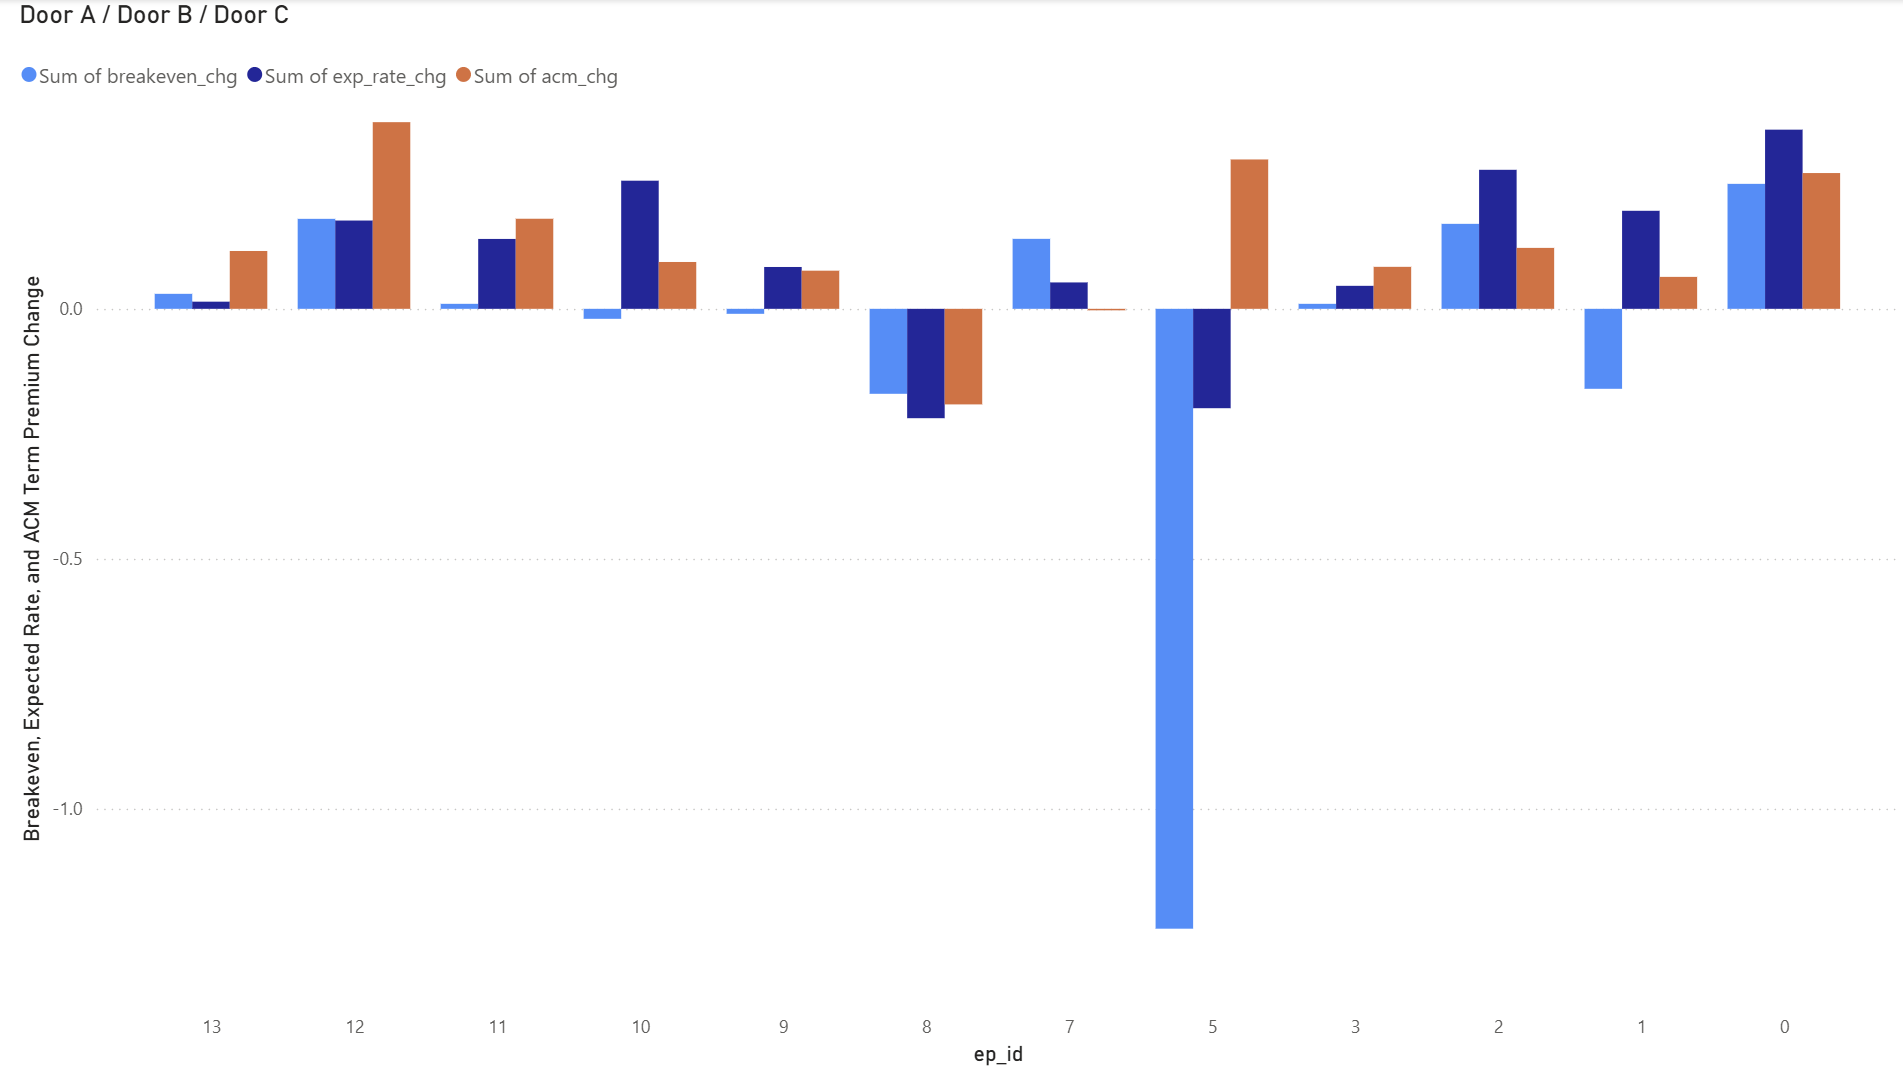
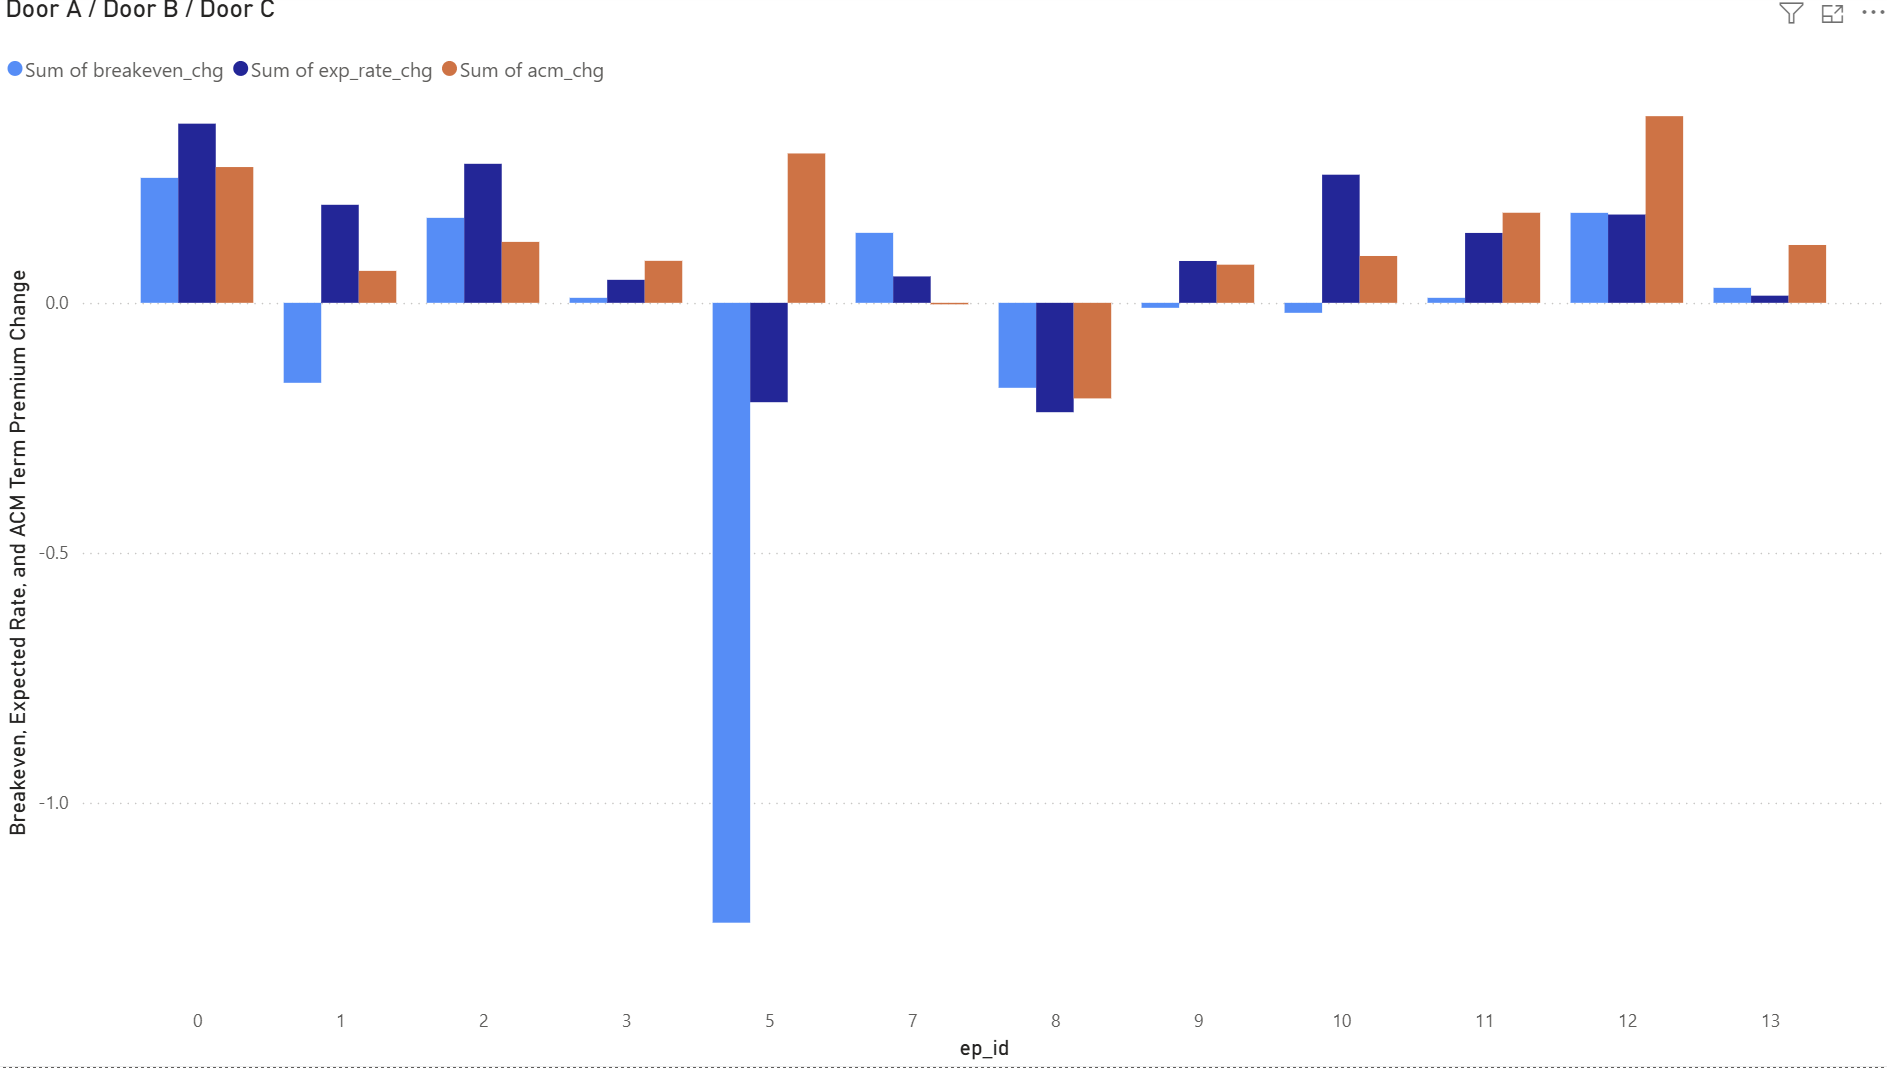
updated readme

diff --git a/README.md b/README.md
@@ -1,2 +1,115 @@
-# gold-real-yield-positive-correlation
-Why gold and the 10Y real yield sometimes co-move, despite a daily relationship that never turns positive across 2004–2026. Decomposes 12 high-correlation episodes into expected rates, term premium, and breakevens
+# Gold and the 10Y Real Yield
+
+Gold pays no interest. So when real yields rise, holding gold costs you more, and gold should fall. In daily data that's exactly what happens — across 5,304 trading days from 2004 to 2026, the 30-day correlation between daily gold returns and daily changes in the 10-year TIPS yield never once turns positive.
+
+But look at the *levels* instead of the changes and the picture breaks. On 191 days, about 3.6% of the sample, the 30-day correlation between the gold price and the real yield exceeds +0.60. Gold and its own opportunity cost, apparently moving together.
+
+This project works out what's going on those days.
+
+The short answer: nothing connects gold to real yields positively. On those days something else has hold of both series at once, and decomposing the yield move tells you what.
+
+## The idea
+
+Two bond-market identities do most of the work here:
+
+```
+Nominal 10Y = expected Fed path + term premium
+Real 10Y    = nominal − breakeven inflation
+
+⇒  real yield = expected rates + term premium − breakeven
+```
+
+So "real yields rose" is three different stories wearing the same headline. Expected rates could have risen, meaning cash genuinely pays more and gold's opportunity cost really did increase. Or the term premium rose, meaning investors demanded more compensation for duration risk — cash pays no more, and the usual causes, deficits and inflation uncertainty, are reasons people buy gold. Or breakevens fell, which pushes the real yield up arithmetically and signals a deflation scare.
+
+Gold only cares about the first one. The textbook rule isn't really "real yields up, gold down" — it's "*expected rates* up, gold down." When the other two components do the moving, the rule's premise is simply absent.
+
+## What I did
+
+I flagged every stretch of consecutive days where the level correlation broke +0.60, requiring at least a trading week and 60 days of separation between episodes. That gives 12 episodes. Each one gets measured over a window starting 30 days before its first flagged day, because the rolling correlation looks backward and the measurement has to match the window the statistic actually describes.
+
+Then each episode's yield move gets split into its three components, using the New York Fed's ACM estimate for the term premium.
+
+For testing whether anything about an episode was *unusual*, I used the same tool throughout: take the episode's length in trading days, compute every change of that length across a matched comparison pool, throw out any window overlapping an episode, and see where the episode itself falls in that distribution. Percentiles rather than p-values, because those windows overlap heavily and the effective sample size is much smaller than it looks.
+
+## What came out
+
+**The two timescales are genuinely different structures.**
+
+![Rolling correlations, levels vs log changes](images/corr-line-plot.png)
+
+The light line (levels) crosses +0.60 repeatedly. The dark line (daily changes) never gets close.
+
+![Daily gold return vs real yield change](images/change-real-vs-log-return-gold.png)
+
+The daily scatter is one negative cloud, and episode days sit inside it alongside everything else. Whatever causes the positive level correlation isn't a change in how gold responds to yields day to day.
+
+**Every episode falls into one of five regimes.**
+
+![Door decomposition by episode](images/mechanisms-episode-regime.png)
+
+| Regime            | Episodes           | What actually moved                               | Gold                                                                       |
+| ----------------- | ------------------ | ------------------------------------------------- | -------------------------------------------------------------------------- |
+| Demand boom       | 0–3 (2005–07)    | expected rates genuinely rose                     | rose anyway, +4% to +29%                                                   |
+| Broken gauge      | 5 (2008)           | breakevens collapsed 1.24pp; nominal barely moved | rose on panic — the measured real yield was distorted by TIPS illiquidity |
+| Eurozone risk-off | 7–8 (2011–12)    | all three components falling together             | fell with yields                                                           |
+| Control           | 9–10 (2013, 2018) | expected rates, honestly                          | **fell** — the textbook channel working                             |
+| Fiscal premia     | 11–13 (2024–26)  | term premium, 56–89% of the nominal move         | rose through "rising real yields"                                          |
+
+The 2013 and 2018 episodes matter most. Gold *fell* in both, exactly as theory says it should when expected rates are the thing moving. Having a control group is what makes the rest of this more than storytelling.
+
+**Composition identifies a regime, not magnitude.**
+
+![Expected rate change vs ACM percentile](images/exp-rate-change-and-acm-percentile.png)
+
+Episode term-premium moves are unusual against matched windows — but not uniquely so. Episode 0 lands at the 95th percentile and episode 5 at the 96th, right alongside episode 12's 98th. Size alone doesn't distinguish the fiscal era.
+
+What distinguishes it is a large term-premium move happening *while expected rates stay flat*. Episode 12 sits near the top with expected rates at +0.18; episode 0 sits equally high with expected rates at +0.36. Same term-premium magnitude, completely different situation.
+
+**One 2005–07 explanation fails, another survives.**
+
+![GLD, silver and copper percentiles, demand-boom episodes](images/gold-etf-hypothesis.png)
+
+The obvious candidate for the demand-boom era was GLD, which launched in November 2004 and opened gold to ordinary portfolios for the first time. Tested against a null of comparable windows drawn from 2005–07 only, so the fund's adoption ramp is common to both groups, episode inflows came in at the 35th, 39th, 16th and 16th percentiles. All below median, none elevated. During episode 2 — gold's largest move in the entire sample, +28.9% — GLD accumulated at 0.067 tonnes per day against 0.904 for the rest of 2006.
+
+A second check points the same way. Annual inflows were flat, not booming: 154, 190 and 175 tonnes across 2005–07, versus 152, 353 and 152 across 2008–10. The later years absorbed just as much gold and produced no episodes at all. The "141% growth in 2005 fading to 13% by 2010" story that first drew me in turned out to be a denominator effect — the base grew from 109 tonnes to 1,129.
+
+Copper and silver tell a different story:
+
+| Episode | Gold   | Copper         | Silver         |
+| ------- | ------ | -------------- | -------------- |
+| 0       | +4.5%  | +4.8% (70th)   | +7.4% (69th)   |
+| 1       | +11.8% | +28.3% (>99th) | +21.5% (97th)  |
+| 2       | +28.9% | +70.1% (>99th) | +47.0% (>99th) |
+| 3       | +5.8%  | +31.5% (>99th) | +4.9% (59th)   |
+
+Episodes 1 and 2 are a broad metals surge with gold participating rather than leading. The cleanest single contrast in the whole project: during episode 2, copper sat above the 99th percentile of its era while ETF demand for gold sat at the 16th. Same window, opposite answers.
+
+## Data
+
+Real yields and breakevens from FRED (`DFII10`, `T10YIE`), the 10-year term premium from the New York Fed's ACM series, gold and copper and silver futures from Yahoo Finance, and GLD's daily tonnage in trust from SPDR going back to inception in November 2004.
+
+The cleaned outputs are two files: a daily series of 5,304 trading days with episode and regime labels, and a 12-row episode table holding the decomposition and every percentile test.
+
+## Important Considerations
+
+The ACM term premium is a model estimate, not something you can observe. A robustness check against the Kim–Wright measure is still owed.
+
+Everything here is reported as percentiles rather than significance tests, because the matched windows overlap heavily and a naive p-value would be badly overconfident.
+
+The null pools aren't identical across tests — GLD uses 2005–07, the commodity tests use 2004–08.
+
+Episodes 0 and 3 still aren't explained by either the ETF or the commodity channel. Something happened in those windows that this analysis doesn't capture.
+
+A raw number means nothing until you know what to expect if nothing interesting were happening. Percentage growth on a growing base measures the base. Tonnes are comparable across time; dollars of copper aren't.
+
+## Future Work
+
+Emerging-market physical demand is the obvious gap for 2005–07. The World Gold Council's country-level data only starts in 2010, so the substitutes are Hong Kong's net gold exports to the mainland, Indian import volumes, and IMF central-bank reserve data — all monthly, which resolves one-to-three-month episodes only roughly.
+
+The more interesting route is the futures curve. Under cost of carry, `F = S·exp((r + u − y)T)`, a high convenience yield means backwardation and genuine physical scarcity, while contango with flat inventories means the rally was financial rather than physical. That distinguishes the two stories directly, but it needs at least two contract months per date. LME and COMEX warehouse inventories, and the CFTC's commercial-versus-speculative position split, are cheaper proxies for the same question.
+
+There's also episode 4 (August 2007, overlapping the BNP Paribas fund freeze), which the minimum-length rule dropped at four days. Worth revisiting.
+
+## References
+
+Adrian, Crump & Moench (2013) on the term premium. Bernanke's 2015 Brookings series is the most readable decomposition primer I found. Erb & Harvey, *The Golden Dilemma* (2013), on how unstable the gold/real-yield relationship is across eras. Barsky & Summers (1988) on Gibson's Paradox. Greenwood & Vayanos (2014) on Treasury supply and the term premium. D'Amico, Kim & Wei, *Tips from TIPS*, and Fleckenstein, Longstaff & Lustig on the TIPS–Treasury puzzle, both on why the 2008 measurement broke. Campbell, Shiller & Viceira (2009). López de Prado, *Advances in Financial Machine Learning* (2018), on label and window alignment.
